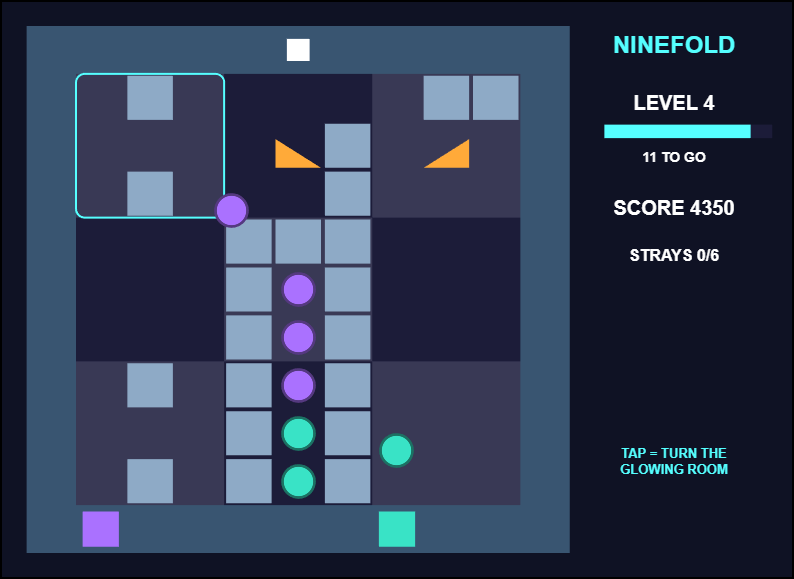
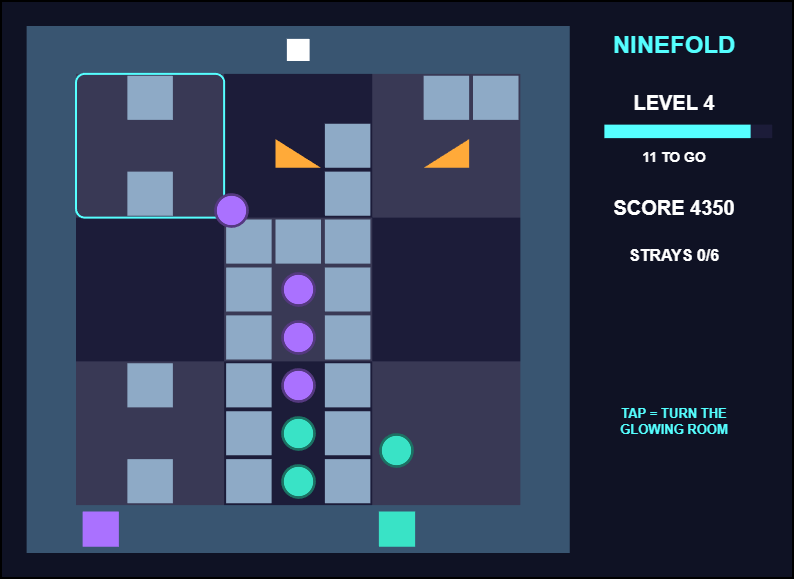
Ninefold: drop the name credit from the side panel; refresh screenshots

Changed region(s): [[0.7859, 0.6839, 0.937, 0.8394]]

diff --git a/examples/ninefold/game.m b/examples/ninefold/game.m
@@ -50,7 +50,7 @@ s.bn = mk(300+290i + 275*real(u) + 115i*imag(u), [0 0 .1]);
 s.fx = mk(400+300i + 400*real(u) + 300i*imag(u), s.K(5,:));
 % every text in one call: title, level, balls to go, score, strays, help, banner x2
 s.tx = text(ax, [680*ones(1, 6) 300 300], [45 105 162 215 265 480 235 325], ...
-    {'NINEFOLD', '', '', '', '', sprintf('TAP = TURN THE\nGLOWING ROOM\n\n\n\n\nby Rich Conlan'), '', ''}, ...
+    {'NINEFOLD', '', '', '', '', sprintf('TAP = TURN THE\nGLOWING ROOM\n\n\n\n\n '), '', ''}, ...
     'FontWeight', 'bold', 'HorizontalAlignment', 'center', 'Color', 'w');
 set(s.tx, {'FontSize'}, {24; 20; 14; 20; 16; 13; 40; 16});
 set(s.tx([1 6 8]), 'Color', s.K(4,:));
